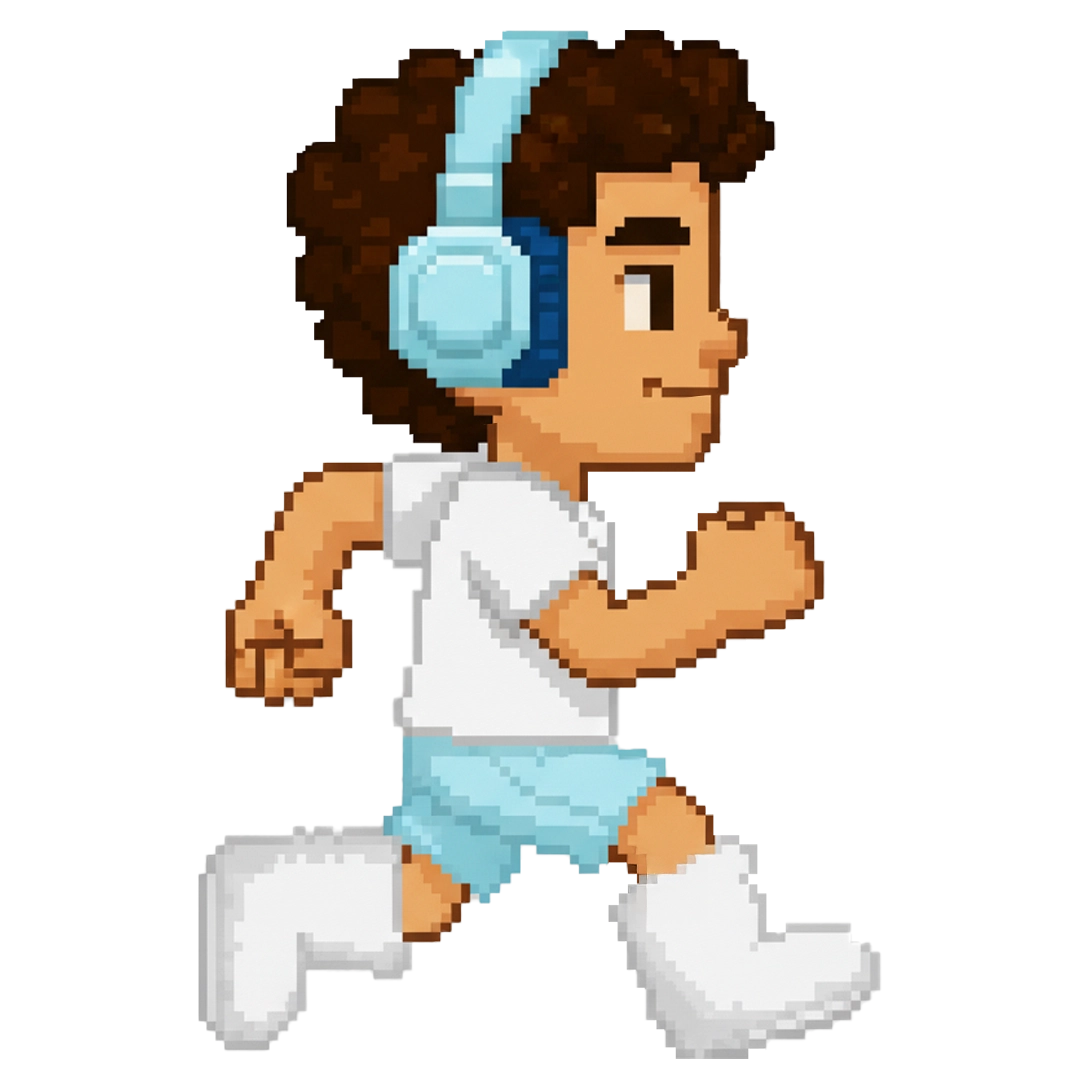
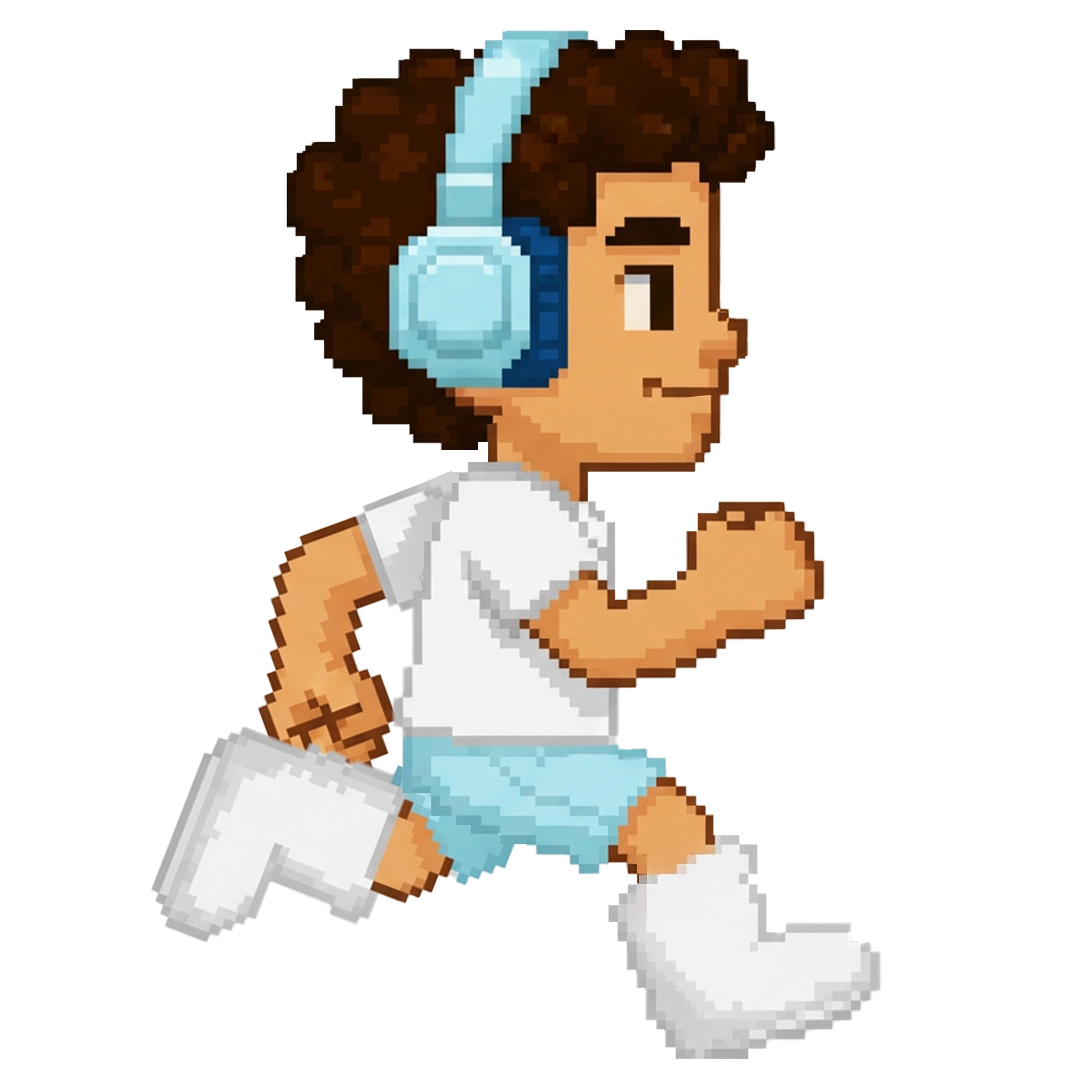
[update] player

Changed region(s): [[0.1222, 0.3972, 0.4889, 0.9778]]

diff --git a/index.html b/index.html
@@ -359,8 +359,8 @@
             meteor: "assets/meteorito.webp",
             bird: "assets/BadCloud.webp",
             player: {
-              runL: "assets/Humbeleft.webp",
-              runR: "assets/HumbeRigth.webp",
+              runL: "assets/HumbeLeft.webp",
+              runR: "assets/HumbeRigtha.webp",
               jump: "assets/HumbeJump.webp",
             },
             gameOverImg: "assets/GAMEOVER.webp",
@@ -422,13 +422,12 @@
           const PHRASES = Array.isArray(window.PHRASES)
             ? window.PHRASES
             : [
-                "UN PROCESO PASAR, PARANOIA ARTIFICIAL",
-                "CON... BENITO JUAREZ?",
-                "¿DÓNDE ESTÁN QUESO Y BABAS?",
-                "EL HIPO VIENE CUANDO VIENE",
-                "ESTA ES COCA COLA DE UVA",
-                "NO HAY QUE MENTIR, PA CONVIVIR",
-                "NO MACAYUUU",
+                "NO QUIERO VER QUE ME FALTES AQUÍ",
+                "¿TÚ MORIRÍAS POR MÍ?",
+                "ME IMAGINO QUE ESTOY CONTIGO",
+                "AHORA PUDE SER YO",
+                "TODO LO QUE YO ERA TE LO DI",
+                "COMO ODIO ESTE CUARTO VACÍO",
               ];
           function makeShuffledBag(arr) {
             const a = (Array.isArray(arr) ? arr : []).filter((v) => v != null);

diff --git a/library/downloadImage.js b/library/downloadImage.js
@@ -84,7 +84,7 @@
       const fontLabelPx = Math.round(H * 0.025);
       const fontLinesPx = Math.round(H * 0.035);
       const gapLabel = Math.round(H * 0.051); // separación número -> "Score:"
-      const gapBetween = Math.round(H * 0.043); // separación entre líneas
+      const gapBetween = Math.round(H * 0.049); // separación entre líneas
 
       const yScore = Math.round(H * 0.36);
       const xCenter = Math.round(W / 2);
